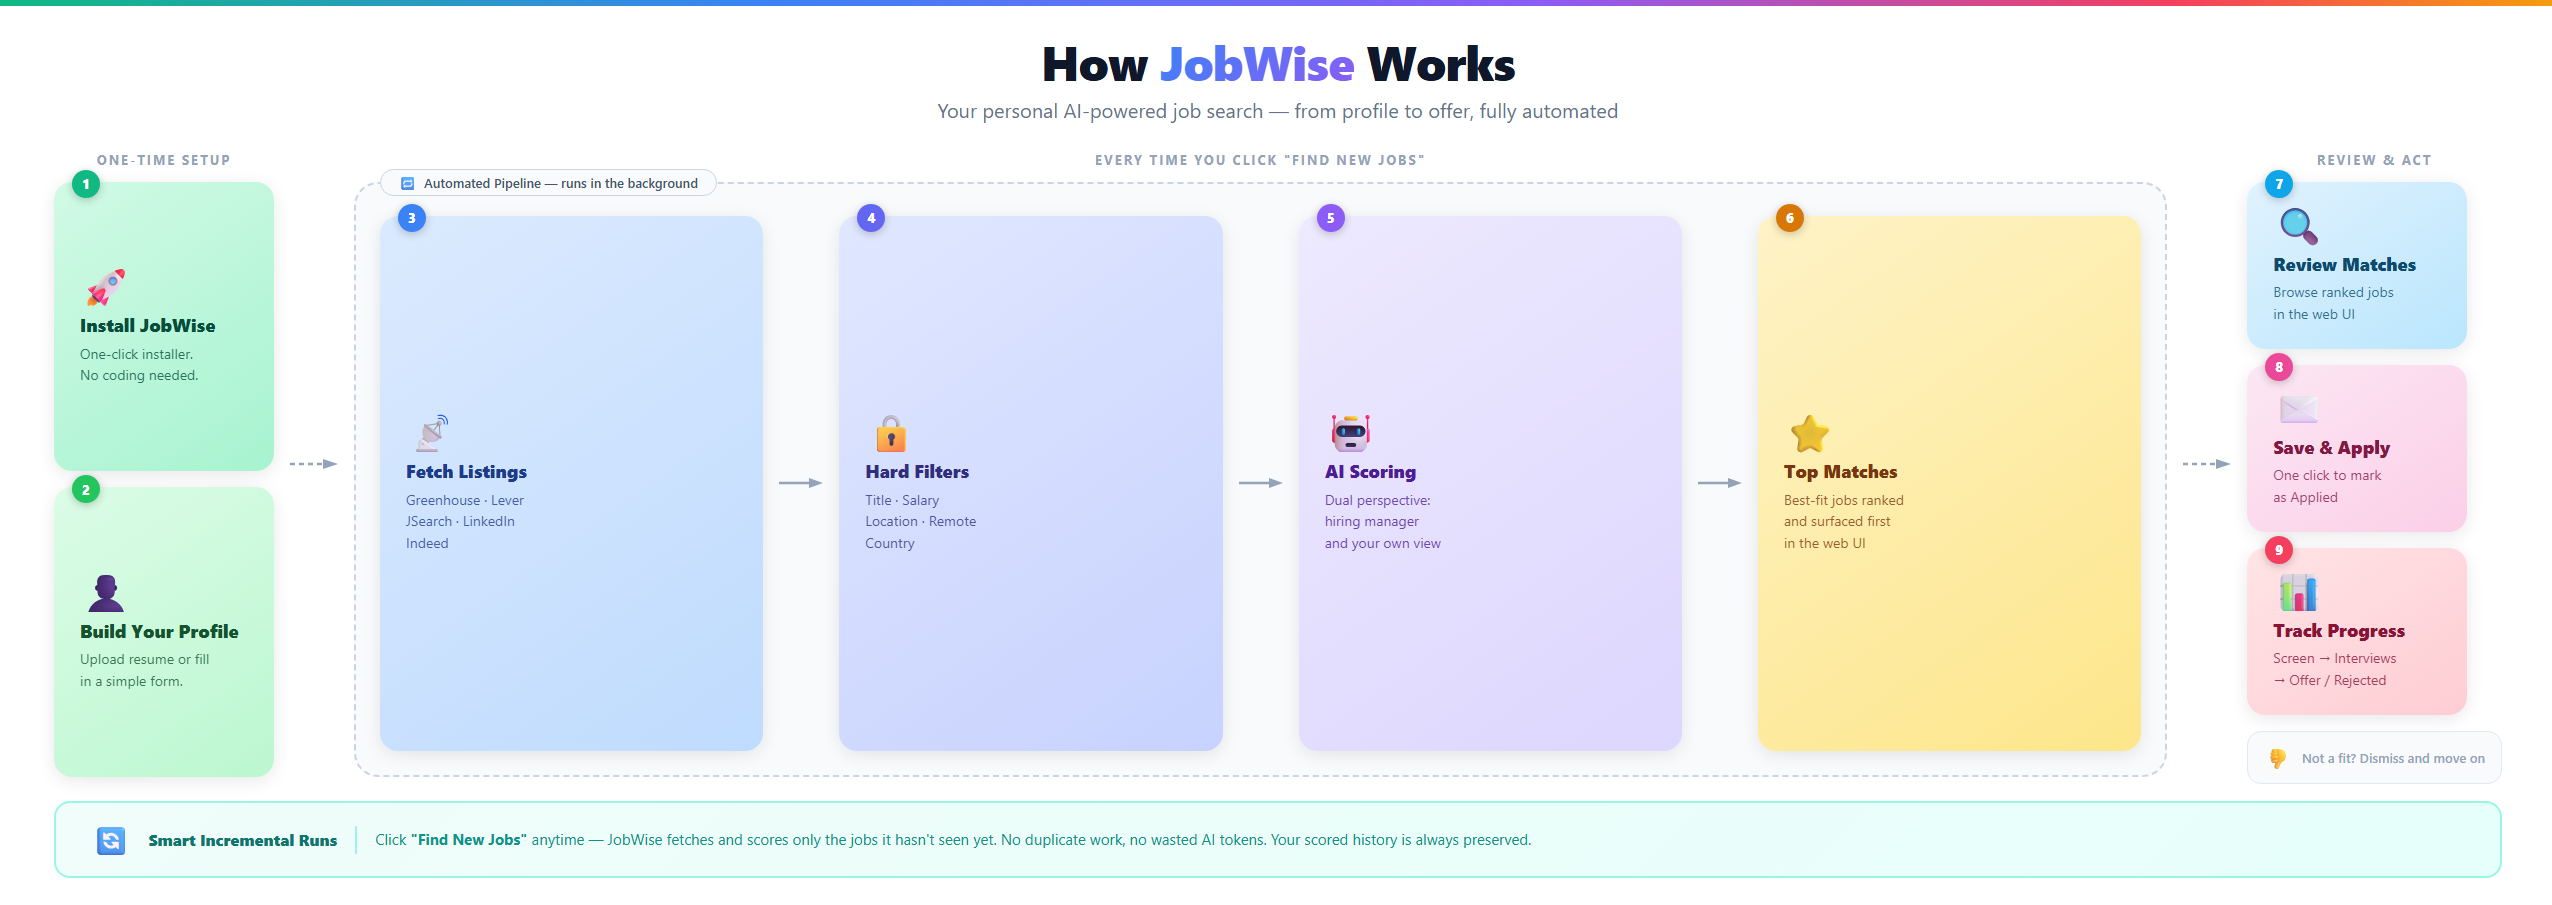
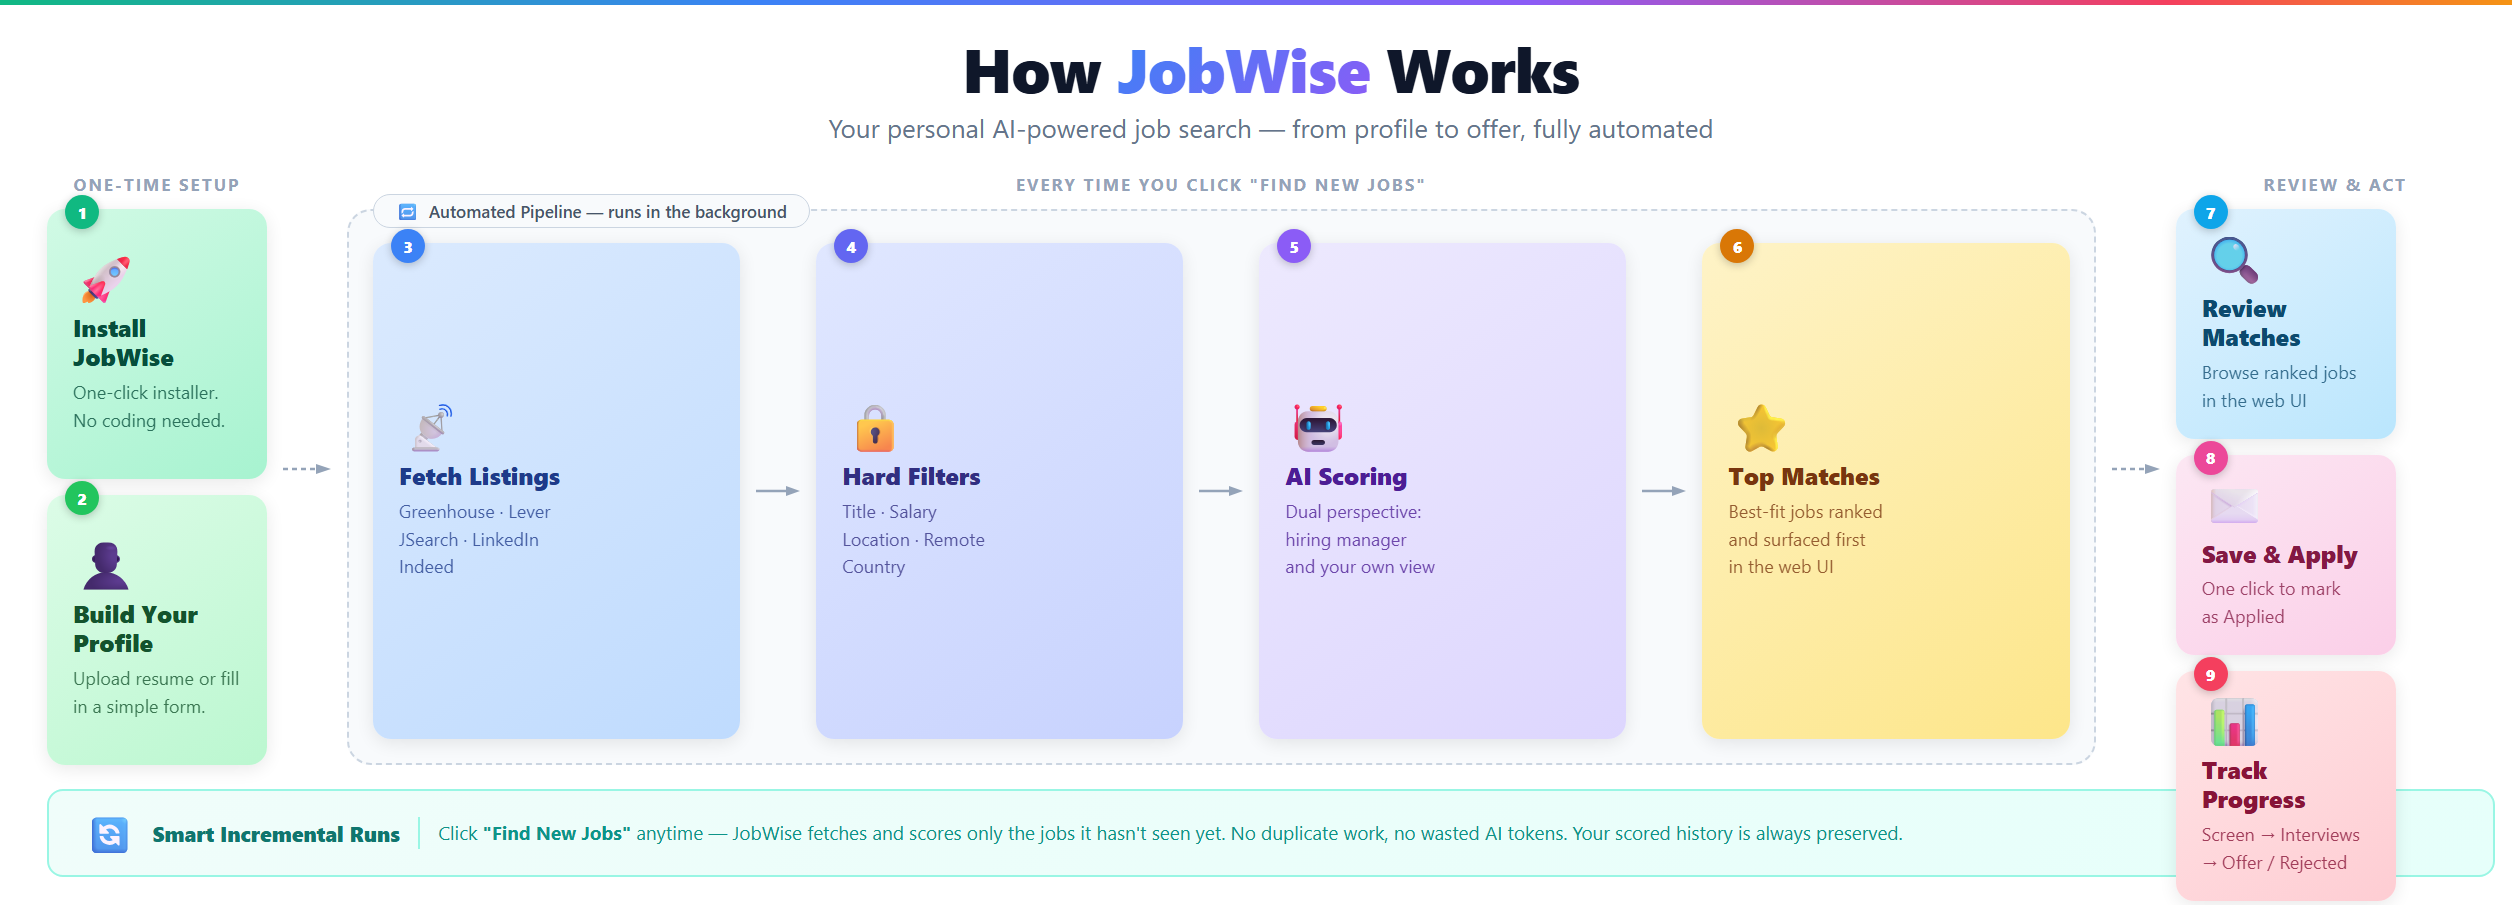
update readme

diff --git a/docs/flow-diagram.html b/docs/flow-diagram.html
@@ -52,7 +52,7 @@
     margin-bottom: 28px;
   }
   .header h1 {
-    font-size: 48px;
+    font-size: 62px;
     font-weight: 800;
     letter-spacing: -1px;
     color: #0f172a;
@@ -66,7 +66,7 @@
   }
   .header p {
     margin-top: 8px;
-    font-size: 20px;
+    font-size: 26px;
     color: #64748b;
   }
 
@@ -87,7 +87,7 @@
     flex-shrink: 0;
   }
   .section-label {
-    font-size: 13px;
+    font-size: 17px;
     font-weight: 700;
     letter-spacing: 2px;
     text-transform: uppercase;
@@ -118,12 +118,12 @@
 
   .badge {
     position: absolute;
-    top: -12px;
+    top: -14px;
     left: 18px;
-    width: 28px;
-    height: 28px;
+    width: 34px;
+    height: 34px;
     border-radius: 50%;
-    font-size: 13px;
+    font-size: 16px;
     font-weight: 800;
     display: flex;
     align-items: center;
@@ -133,19 +133,19 @@
   }
 
   .card-icon {
-    font-size: 38px;
-    margin-bottom: 10px;
+    font-size: 48px;
+    margin-bottom: 12px;
     display: block;
     line-height: 1;
   }
   .card-title {
-    font-size: 18px;
+    font-size: 24px;
     font-weight: 800;
-    margin-bottom: 6px;
+    margin-bottom: 8px;
     line-height: 1.2;
   }
   .card-desc {
-    font-size: 14px;
+    font-size: 18px;
     line-height: 1.55;
     opacity: 0.78;
   }
@@ -185,13 +185,13 @@
   }
   .pipeline-tag {
     position: absolute;
-    top: -15px;
+    top: -17px;
     left: 24px;
     background: #f8fafc;
     border: 1.5px solid #cbd5e1;
     border-radius: 20px;
-    padding: 4px 18px;
-    font-size: 13px;
+    padding: 5px 22px;
+    font-size: 17px;
     font-weight: 600;
     color: #475569;
     white-space: nowrap;
@@ -230,9 +230,9 @@
     align-items: center;
     gap: 18px;
   }
-  .loop-icon { font-size: 28px; flex-shrink: 0; }
+  .loop-icon { font-size: 36px; flex-shrink: 0; }
   .loop-badge {
-    font-size: 16px;
+    font-size: 21px;
     font-weight: 800;
     color: #0f766e;
     white-space: nowrap;
@@ -240,12 +240,12 @@
   }
   .loop-divider {
     width: 2px;
-    height: 28px;
+    height: 32px;
     background: #99f6e4;
     flex-shrink: 0;
   }
   .loop-text {
-    font-size: 15px;
+    font-size: 19px;
     color: #0d9488;
     line-height: 1.55;
   }
@@ -262,8 +262,8 @@
     padding: 12px 16px;
     flex-shrink: 0;
   }
-  .dismiss-note span:first-child { font-size: 20px; }
-  .dismiss-note span:last-child  { font-size: 13px; color: #94a3b8; font-weight: 600; }
+  .dismiss-note span:first-child { font-size: 26px; }
+  .dismiss-note span:last-child  { font-size: 17px; color: #94a3b8; font-weight: 600; }
 </style>
 </head>
 <body>
